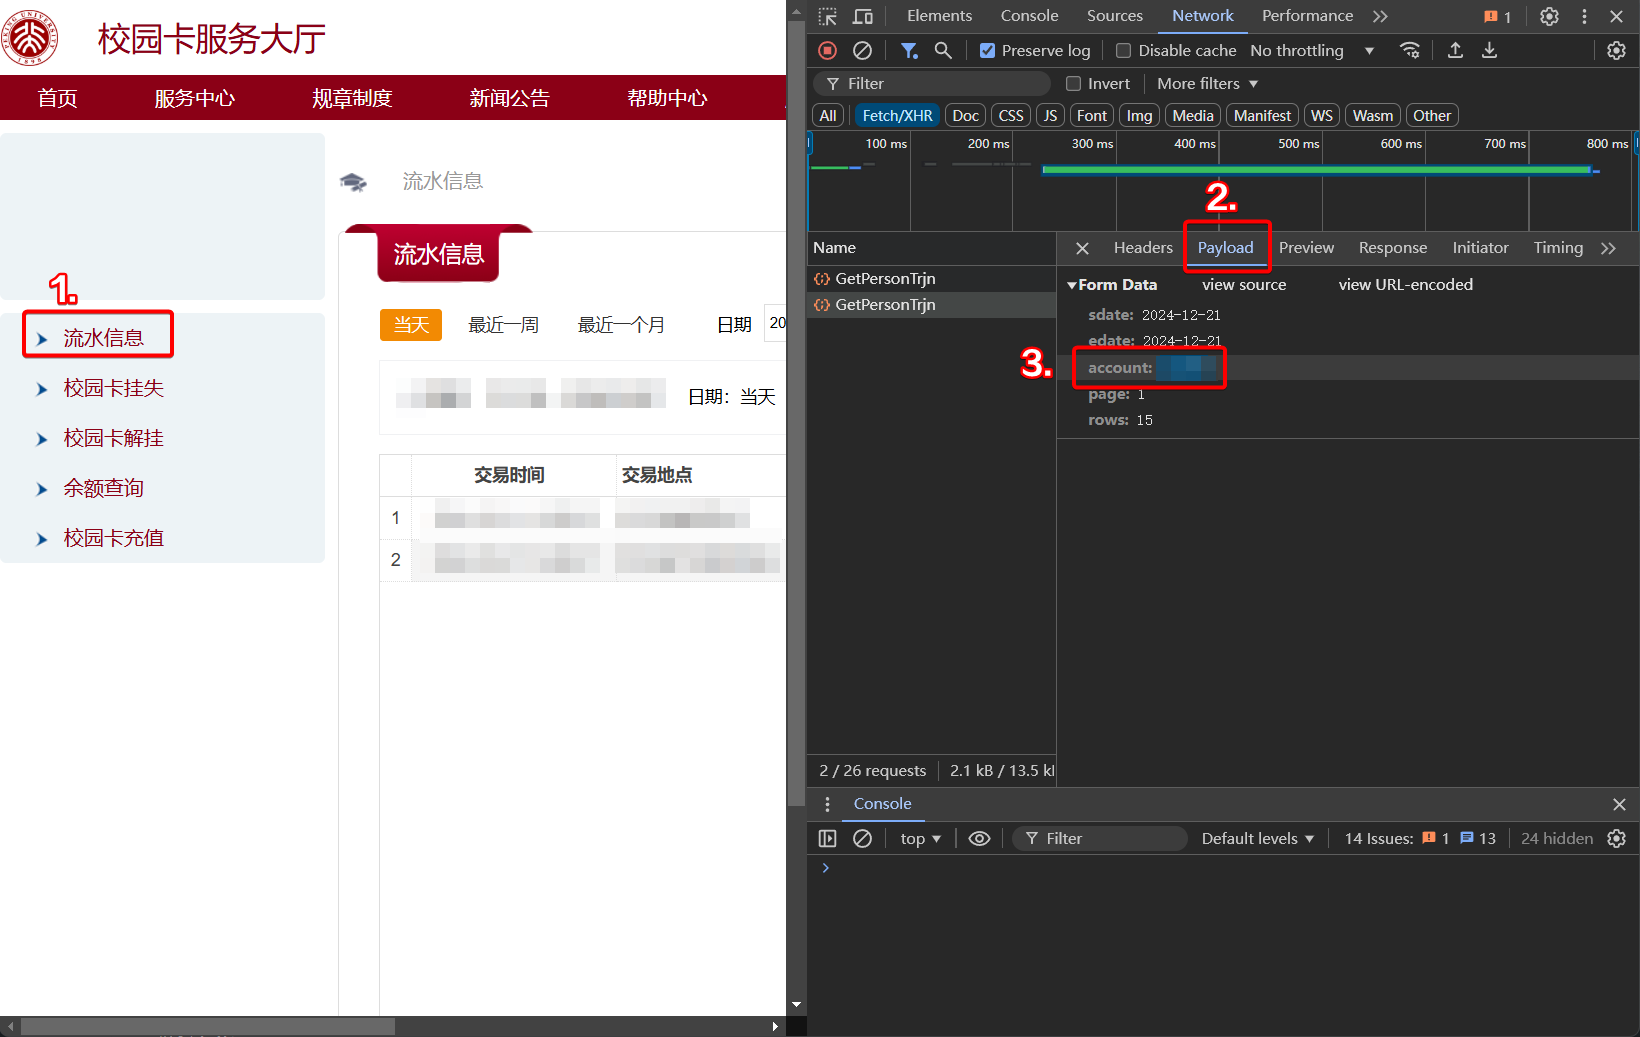
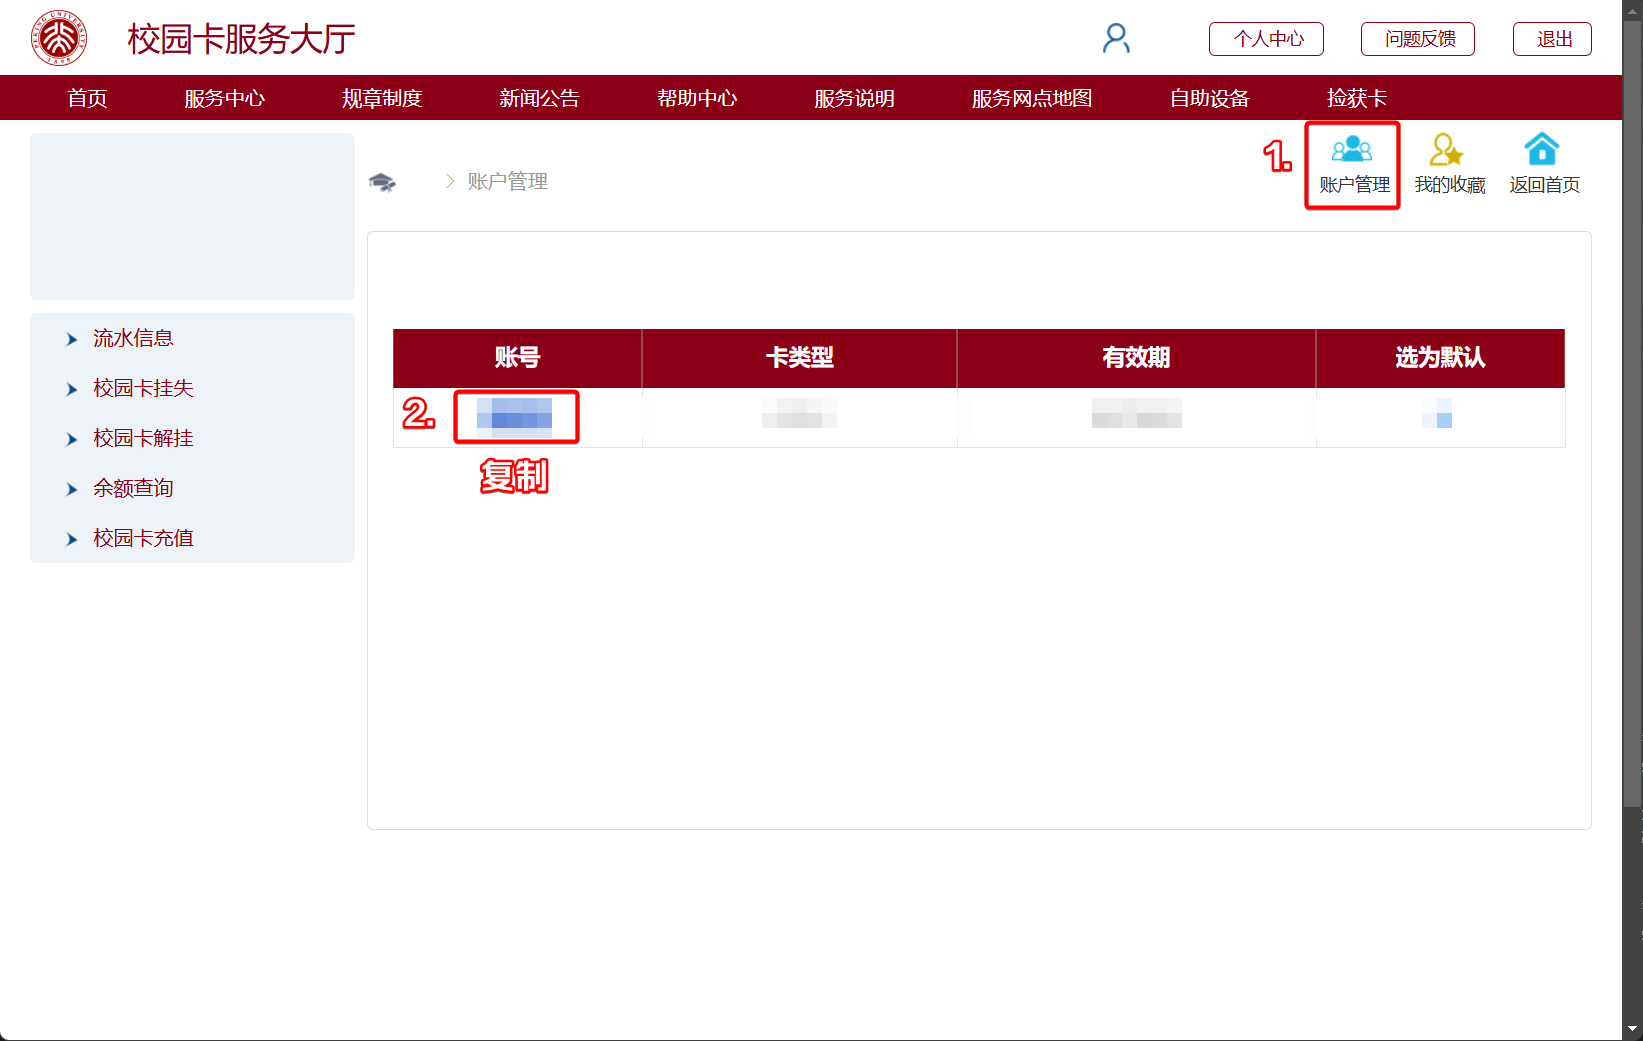
update README

diff --git a/README.md b/README.md
@@ -6,7 +6,7 @@
 
 > 项目的 idea 来源于 [Rose-max111](https://github.com/Rose-max111)。
 
-本项目是一个用于统计白鲸大学学生在食堂（和宿舍）的消费情况的脚本。通过模拟登录大学校园卡网站，获取学生在白鲸食堂的消费记录，并通过数据可视化的方式展示。
+本项目是一个用于统计白鲸大学学生校园卡消费情况的脚本。通过模拟登录大学校园卡网站，获取学生的校园卡消费记录，并通过数据可视化的方式展示。
 
 本项目fork自[THU-Annual-Eat](https://github.com/leverimmy/THU-Annual-Eat)，感谢原作者的贡献。
 
@@ -14,17 +14,17 @@
 
 ## 使用方法
 
-### 0. 获取服务代码
+### 0. 获取account和hallticket
 
-首先，登录校园卡账号后，在[白鲸大学校园卡网站](https://card.pku.edu.cn/user/user)获取你的`account`和`hallticket`。
+首先，登录校园卡账号后，在[白鲸大学校园卡网站](https://card.pku.edu.cn/user/user)获取你的`account`和`hallticket`。方法如下：
 
 ![card](./card.png)
 
-`F12` 打开开发者工具，切换到 Network标签页，然后点击网页左侧的`流水信息`，找到 `GetPersonTrjn` 这个请求，进入`Payload`选项卡，复制其中`account`字段**之后**（不含 `account`）的值，后面会用到。
+点击`账号管理`，在弹出的页面中找到`账号`，复制其值。
 
 ![account](./account.png)
 
-再进入`Cookies`选项卡，找到`hallticket`一行，复制其`value`，后面会用到。
+`F12` 打开开发者工具，切换到`Network`标签页，然后`Ctrl+R`刷新页面，找到 `GetCardInfoByAccountNoParm` 这个请求，进入`Cookies`选项卡，复制其中`hallticket`字段的**value**，后面会用到。
 
 ![hallticket](./hallticket.png)
 
